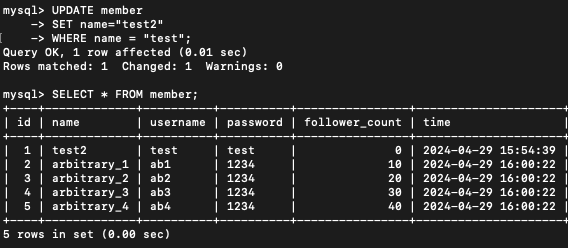
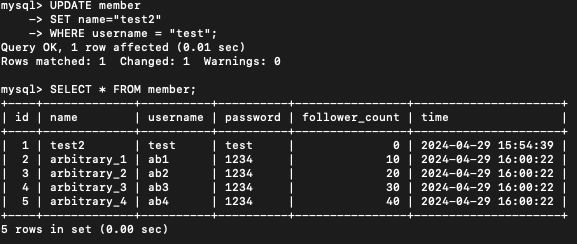
done

diff --git a/w5_MySQL/README.md b/w5_MySQL/README.md
@@ -97,7 +97,7 @@ WHERE username = "test" AND password = "test"
 ```ruby
 UPDATE member
 SET name="test2"
-WHERE name = "test";
+WHERE username = "test";
 ```
 
 ![Optional Title](https://raw.githubusercontent.com/RaphaFang/RaphaFang.github.io/main/w5_MySQL/img/3.8.png)
